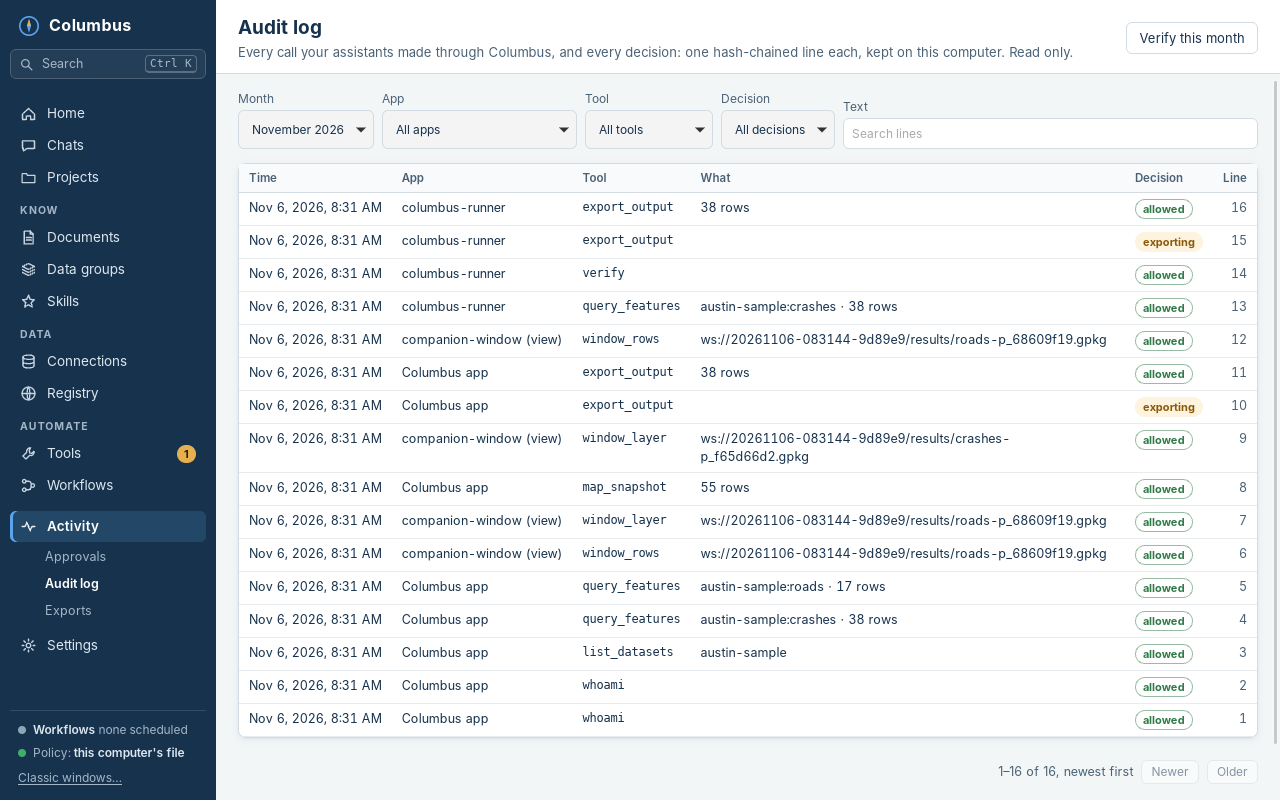
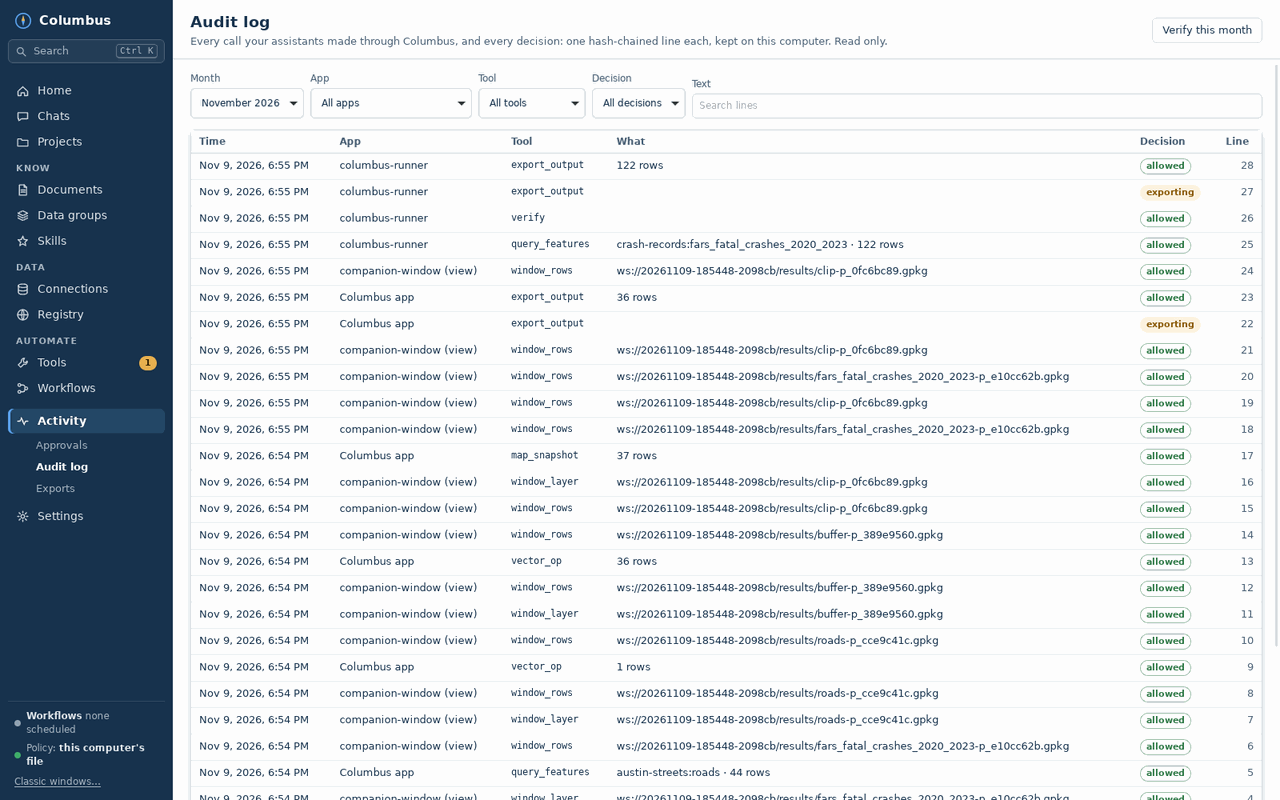
T-16: README and GitHub page (CR-2)
README rewritten for GIS analysts (about 110 lines): pitch, hero, what it does,
demo animation, how-it-works diagram, get started, tour, what's in 0.14.
Pictures retaken in CI on public Austin data with the street basemap, light and
dark; social preview card for the owner to upload.

Claude-Session: https://claude.ai/code/session_01UjJQzVR1M2yDc1apjTBVEP

diff --git a/app/desktop/e2e/demo/social_card.py b/app/desktop/e2e/demo/social_card.py
@@ -36,7 +36,7 @@ p.foot {{ font-size: 22px; color: #9fc4ea; margin: 40px 0 0; }}
 <div class="text">
   <div class="brand"><img src="{data_url(IMAGES / 'logo.svg', 'image/svg+xml')}" alt=""><h1>Columbus</h1></div>
   <p class="pitch">Let AI work on your organization's GIS data, under your rules, on your computer.</p>
-  <p class="foot">Oracle · SQL Server · file geodatabases · ArcGIS · Excel</p>
+  <p class="foot">Oracle · SQL Server · geodatabases · ArcGIS</p>
 </div>
 <div class="shot"><img src="{data_url(IMAGES / 'hero-light.png', 'image/png')}" alt=""></div>
 </body></html>"""

diff --git a/README.md b/README.md
@@ -1,151 +1,112 @@
 <p align="center">
-  <img src="docs/images/logo.svg" alt="Columbus" width="96">
+  <img src="docs/images/logo.svg" alt="Columbus logo" width="88">
 </p>
 
 <h1 align="center">Columbus</h1>
 
 <p align="center">
-  <b>A governed GIS workbench for working with AI.</b><br>
-  Your assistant reads, checks and maps your data under your organization's rules, and nothing changes or leaves your computer without you.
+  <b>Let AI work on your organization's GIS data, under your rules, on your computer.</b>
 </p>
 
 <p align="center">
-  <a href="https://github.com/wiatrek-kevin-s/columbus/actions/workflows/ci.yml"><img alt="CI" src="https://github.com/wiatrek-kevin-s/columbus/actions/workflows/ci.yml/badge.svg"></a>
+  <a href="https://github.com/wiatrek-kevin-s/columbus/actions/workflows/ci.yml"><img alt="CI status" src="https://github.com/wiatrek-kevin-s/columbus/actions/workflows/ci.yml/badge.svg"></a>
   <a href="https://github.com/wiatrek-kevin-s/columbus/releases"><img alt="Latest release" src="https://img.shields.io/github/v/release/wiatrek-kevin-s/columbus?include_prereleases&label=release"></a>
-  <img alt="Platforms" src="https://img.shields.io/badge/platforms-macOS%20%7C%20Windows-blue">
-  <img alt="Built with Rust and Python" src="https://img.shields.io/badge/built%20with-Rust%20%2B%20Python-orange">
+  <img alt="Platforms: macOS, Windows, Linux server" src="https://img.shields.io/badge/platforms-macOS%20%7C%20Windows%20%7C%20Linux%20server-blue">
   <a href="LICENSE"><img alt="License: Apache 2.0" src="https://img.shields.io/badge/license-Apache--2.0-green"></a>
 </p>
 
 <p align="center">
   <a href="https://github.com/wiatrek-kevin-s/columbus/releases/latest"><b>Download</b></a> ·
-  <a href="docs/install-macos.md">Install on a Mac</a> ·
-  <a href="docs/install.md">Install on Windows</a> ·
-  <a href="docs/reference.md">Technical reference</a>
+  <a href="#get-started"><b>Get started</b></a> ·
+  <a href="docs/reference.md"><b>Docs</b></a>
 </p>
 
 <p align="center">
-  <img src="docs/images/chat.png" alt="A chat in the Columbus app: the assistant reads crash and road layers, looks at them on a map, and answers with a table; the map and the layers' checks are beside the chat" width="900"><br>
-  <sub>A chat in the Columbus app. The assistant read two layers, looked at them on a map to check that they line up, and answered. The map, the layers and their checks are beside the chat.</sub>
+  <picture>
+    <source media="(prefers-color-scheme: dark)" srcset="docs/images/hero-dark.png">
+    <img src="docs/images/hero-light.png" width="900" alt="The Columbus app. On the left, a chat: the analyst asks which fatal crashes from 2020 to 2023 happened within 150 feet of IH 35 in central Austin; the assistant reads the crash records and the street centerlines, draws a corridor, keeps the crashes inside it and answers with a table by year. On the right, a street map of central Austin with the IH 35 corridor and the counted crashes highlighted, and each layer marked Checks passed.">
+  </picture>
+  <br><sub>A question about real public data for Austin, Texas, answered in the Columbus app. Every layer is checked, and the map shows what was counted.</sub>
 </p>
 
 > [!WARNING]
-> **Test releases.** Columbus is young software, built mostly by an AI model (see [Disclaimer](#disclaimer)). Try it on data you can afford to have read, and have your organization review it before using it on production or sensitive data.
+> **Columbus is a test release, built mostly by an AI.** Try it on data you can afford to have read, and have your organization review it before using it on production or sensitive data ([disclaimer](#disclaimer)).
 
-## Why Columbus
+## What it does
 
-- **Your AI, your data, your rules.** Use Columbus from Claude desktop or any other AI app that speaks MCP, or from its own chat with your Anthropic API key. Whatever the AI asks for, Columbus decides in its own code (not in a prompt) what it may read and do.
-- **Read-only by default.** Every connection is read-only until your organization's settings allow edits, and even then each change set is shown to you before anything is written.
-- **Nothing leaves or changes without you.** Exports, edits, scripts and downloads wait for your yes. Approvals are bound to the exact request, single-use, and expire.
-- **Every result is checked.** Row counts, CRS and units, geometry validity, row limits and filters come back with every result as checks: passed, to review, or failed. A failed check blocks exports until you decide.
-- **It shows its work.** Every output has a provenance record (inputs, steps, checks), and every call, including refusals, is a line in a hash-chained audit log on your computer.
-- **Local and private.** Columbus runs on your computer. Your data goes to the AI service you chose, and only the rows the rules let it see. Columbus itself sends nothing anywhere: no telemetry, no account.
+- **Reaches all your data.** Oracle and SQL Server geodatabases, file geodatabases and shapefiles, ArcGIS Online and Portal layers, CSV and Excel, GeoPackage, PostGIS and rasters. You add each one once, in the app.
+- **Keeps your rules, in code.** Every connection is read-only unless your organization allows edits. Row filters and hidden fields apply before the AI sees anything. Exports, edits and scripts wait for your yes, unless you approved them ahead of time (a pre-approved folder, a tool you installed). Every step is logged on your computer.
+- **Does real GIS work.** Queries, joins, buffers and overlays, raster analysis, your own Python, and ArcGIS Pro's arcpy (experimental). Every result comes back with checks (row counts, coordinate systems, valid shapes), and jobs you repeat become scheduled workflows.
 
-## A tour
+## See it work
+
+<p align="center">
+  <picture>
+    <source type="image/webp" srcset="docs/images/demo.webp">
+    <img src="docs/images/demo.gif" width="900" alt="A short animation of the Columbus app: the analyst types a question; the assistant reads two layers, which appear on the map; the checks pass and it answers with a table; asked to export, Columbus shows a request with exactly what will be written and where; the analyst allows it once and the export is done.">
+  </picture>
+  <br><sub>Ask, read, map, check. The export waits until you allow it.</sub>
+</p>
+
+## How it works
+
+<p align="center">
+  <picture>
+    <source media="(prefers-color-scheme: dark)" srcset="docs/images/how-it-works-dark.svg">
+    <img src="docs/images/how-it-works-light.svg" width="900" alt="Diagram: your AI app (Columbus's own chat, Claude, Copilot or any app that speaks MCP) asks Columbus. Columbus, on your computer, applies the rules, the approvals, and the checks and log. Then it reads your data (Oracle, SQL Server, file geodatabases, shapefiles, ArcGIS Online and Portal, CSV, Excel, GeoPackage, rasters, PostGIS) or runs your Python (the GIS engine, your environments, ArcGIS Pro's arcpy).">
+  </picture>
+</p>
+
+Your AI app never touches your data directly. It asks Columbus, through MCP (the standard way AI apps call tools), and Columbus decides in its own code what it may read and do. Columbus runs on your computer, with no account and no telemetry. Your data goes only to the AI service you chose, and only the rows your rules allow.
+
+## Get started
+
+1. **Download** the [latest release](https://github.com/wiatrek-kevin-s/columbus/releases/latest): the Columbus app, the Claude extension (`.mcpb`) and the server folder (`.zip`).
+2. **Set up the GIS engine** once, from the server folder: `sh engine/setup-engine.sh` on a Mac, `engine\setup-engine.ps1` on Windows.
+3. **Connect an AI.** Install the extension in Claude desktop, or add your Anthropic API key in the app under **Settings › Models and accounts**.
+4. **Add a connection and ask.** In the app, **Connections › Add connection** (a GeoPackage or a file geodatabase is the quickest start). Then ask, for example: *Check the parcels layer for invalid geometries and show me where they are.*
+
+Step by step: [Windows 10 and 11](docs/install.md) · [Mac](docs/install-macos.md) (Apple Silicon, macOS 15 or later). The app is not code-signed yet, so Windows and macOS warn the first time; the guides say what to do.
+
+## A short tour
 
 <table>
   <tr>
-    <td width="50%"><img src="docs/images/chat.png" alt="Chat with the map beside it"><br><b>Chat</b>: the assistant's steps fold into short lines with check badges; the map and table sit beside it.</td>
-    <td width="50%"><img src="docs/images/chat-map-first.png" alt="Map first layout"><br><b>Map first</b>: one click puts the map in the middle and the chat on the side, for reviewing results.</td>
+    <td width="50%"><picture><source media="(prefers-color-scheme: dark)" srcset="docs/images/tour-connections-dark.png"><img src="docs/images/tour-connections-light.png" alt="The Connections page listing an Oracle enterprise geodatabase, a file geodatabase, a folder of crash records, a GeoPackage of streets and an ArcGIS Online layer, each read only, with what the assistant may see in plain words."></picture><br><b>Connections.</b> Each source, and in plain words what the AI may see.</td>
+    <td width="50%"><picture><source media="(prefers-color-scheme: dark)" srcset="docs/images/tour-approval-dark.png"><img src="docs/images/tour-approval-light.png" alt="An export request in the chat, showing the layer, the folder and the file it will write, with Allow once and Deny buttons."></picture><br><b>Approvals.</b> An export shows exactly what it will write, and where.</td>
   </tr>
   <tr>
-    <td><img src="docs/images/approval.png" alt="An export waiting for approval in the chat"><br><b>Approvals</b>: an export to a folder that isn't pre-approved waits for you, with exactly what it will write and where.</td>
-    <td><img src="docs/images/home.png" alt="Home page"><br><b>Home</b>: what needs you, from every chat and AI app on this computer: requests, notes in draft, tools and workflows to review.</td>
-  </tr>
-  <tr>
-    <td><img src="docs/images/workflow-review.png" alt="Reviewing a workflow before approving it"><br><b>Workflows</b>: a job your assistant proposed, in plain words and in full, approved once with Touch ID or Windows Hello.</td>
-    <td><img src="docs/images/workflow-run.png" alt="A workflow run's report"><br><b>Workflow runs</b>: each run's report: steps, row counts, checks and what was exported.</td>
-  </tr>
-  <tr>
-    <td><img src="docs/images/tool-review.png" alt="Reviewing a tool before installing it"><br><b>Your own tools</b>: a script your assistant packaged as a tool, read line by line before you install it.</td>
-    <td><img src="docs/images/connections.png" alt="Connections page"><br><b>Connections</b>: your databases and files, and in plain words what the assistant may see in each.</td>
-  </tr>
-  <tr>
-    <td><img src="docs/images/audit.png" alt="Audit log viewer"><br><b>Audit log</b>: every call any assistant made through Columbus, and every decision, with a check of the chain.</td>
-    <td><img src="docs/images/settings.png" alt="Models and accounts settings"><br><b>Settings</b>: the AI for chats (model and thinking level), the server and engine in use, and your organization's switches.</td>
+    <td><picture><source media="(prefers-color-scheme: dark)" srcset="docs/images/tour-workflow-run-dark.png"><img src="docs/images/tour-workflow-run-light.png" alt="The Workflows page with a weekly crash check and the report of its last run: steps, row counts, checks and the exported files."></picture><br><b>Workflows.</b> A repeated job, run on a schedule, with a report each time.</td>
+    <td><picture><source media="(prefers-color-scheme: dark)" srcset="docs/images/tour-checks-dark.png"><img src="docs/images/tour-checks-light.png" alt="The map in front, with a layer's details open: its checks, the datasets it was made from and its provenance record."></picture><br><b>Checks and provenance.</b> Each result, what it was made from, and how.</td>
   </tr>
 </table>
 
-Every screenshot is taken from the app itself by a script ([`app/desktop/e2e/screenshots.py`](app/desktop/e2e/screenshots.py)), on made-up data around Austin, Texas.
+More pages in the [app tour](docs/app-tour.md). Every picture is taken from the app by a script ([`screenshots.py`](app/desktop/e2e/screenshots.py)) on [public data](docs/images/DATA-CREDITS.md).
 
-## The app, page by page
+## What's in 0.14
 
-The Columbus app is one window with a menu down the side.
+- **Folders of files:** CSV, Excel, GeoJSON, GeoParquet, KML and FlatGeobuf, with the same rules as a GeoPackage.
+- **ArcGIS Online and Portal layers**, public or signed in with your organization's own ArcGIS app. The AI never sees the sign-in.
+- **Your own Python environments** for scripts, sandboxed by default.
+- **arcpy in trusted environments** (*experimental*: not yet checked on a real ArcGIS Pro computer).
+- **File geodatabase and GeoTIFF exports**, and measures (M values) kept end to end for linear referencing.
+- **Web map layers** (imagery and other services) on your map, for display only.
+- **Reviewing results:** open a workflow run in a chat, zoom to a row, measure on the map.
 
-| Page | What it is for |
-| --- | --- |
-| **Home** | What needs you right now: requests waiting for a decision, notes in draft, tools and workflows to review, recent chats. The first time, a short setup checklist (connect an AI, set up the GIS engine, add a connection). |
-| **Chats** | Your conversations in the app, saved and searchable (**Ctrl+K** / **⌘K**), and the sessions other AI apps (Claude desktop) run through Columbus, with what they did and their map. A chat opens with the map and table beside it; choose its model and thinking level below the message box. |
-| **Projects** | A piece of work with its own instructions for the assistant, the connections its chats may use, a default export folder and its project databases. |
-| **Documents** | Notes Columbus drafted from your databases (fields, codes, relationships), which you fill in and **Mark reviewed**, and your organization's context pack, read only. |
-| **Data groups** | Named sets of datasets across connections, each with an optional row filter; attached to a project, its chats see only those rows. |
-| **Skills** | The GIS skills your assistant reads: when to use which tool, and how. Skills are advice; they never grant access. |
-| **Connections** | Add, test and edit GeoPackages, SQLite files, shapefiles, file geodatabases, raster folders, folders of files (CSV, Excel, GeoJSON, GeoParquet, KML, FlatGeobuf), ArcGIS Online and Portal services (with **Sign in**) and databases (PostGIS, Oracle, SQL Server), each with its mode (read-only or read-write), allowed datasets, row filter and limits. Anything that gives the assistant more access asks for Touch ID or Windows Hello. **Draft notes** writes a note about a connection's datasets for you to review. **Map layers** adds imagery and other web services to your map (display only; the assistant never sees them). |
-| **Registry** | The open geospatial registry: open data by place and theme, and GIS tools, searched through Columbus. |
-| **Tools** | Tools your assistant made from its scripts. You read each one, code and all, and install it; installed tools run without asking, in the same sandbox as scripts. |
-| **Workflows** | Jobs that run by themselves on a schedule: proposed by your assistant, approved by you, with **Run now**, **Pause**, and every run's report. Optionally an AI review of the results against your criteria. |
-| **Activity** | The **approvals inbox** across every session, the **audit log** (filter by app, tool and decision; verify the chain), and **exports**. |
-| **Settings** | The AI for chats (API key, model, thinking level), the Columbus server and GIS engine in use, your Python environments, theme, privacy, keyboard, and your organization's settings in plain sentences. |
+Files and upgrade steps: [release notes](https://github.com/wiatrek-kevin-s/columbus/releases) · Everything Columbus does: [capabilities](docs/capabilities.md).
 
-## What it can do
+## Learn more
 
-| Area | Highlights |
-| --- | --- |
-| **Data** | GeoPackage, SQLite, shapefiles, file geodatabases, raster folders, folders of CSV, Excel, GeoJSON, GeoParquet, KML and FlatGeobuf files, ArcGIS Online/Portal layers (public or signed in); PostGIS, Oracle and SQL Server (read-only, or read-write when allowed); datasets allowed by name or pattern; row filters and hidden fields applied in the server; limits on rows and time. |
-| **Analysis** | `query_features`, checked SQL (`sql_select`), vector operations (reproject, buffer, simplify, make valid, clip, dissolve, intersect, attribute and spatial joins), raster operations, verification checks; results are workspace layers passed by handle, never pasted into the chat. |
-| **Looking** | The map and table beside each chat; `map_snapshot` lets the assistant look at its layers as a picture (geometry only, no basemap, nothing downloaded) to spot slivers, gaps and layers that don't line up. |
-| **Big tables** | Raised limits (up to 20 million rows per query, by your organization), results streamed to disk, and project databases (DuckDB) to load several tables into and join with SQL. |
-| **Approvals** | Exports, edits, scripts, downloads and sending data to connected servers wait for you: in your AI app's own prompt, in the Columbus app's chat, or on a local approvals page. Bound to the exact request, single-use, expiring. |
-| **Your tools** | Save a script as a tool (`propose_tool`): checked, test-run in the sandbox, read and installed by you, then reusable by any assistant. |
-| **Workflows** | Save a job as a workflow (`propose_workflow`): reading and checking steps, the connections it may read, a schedule (launchd on macOS, Task Scheduler on Windows), results to an export folder, an optional AI review. Never waits for you: anything that needs approval stops it with "needs you". |
-| **Connected servers** | Other MCP servers (Drive, notes, vendor APIs) behind Columbus, reviewed and pinned by manifest, confined, with data-flow rules on what may be sent where. |
-| **Context** | Your organization's context pack (datasets, domains, LRS, SOPs, delivery specs) and your own notes, searchable by the assistant. |
-| **Audit** | One hash-chained line per call, including refusals; `columbus-mcp audit verify`; the app's viewer. |
-| **Platforms** | macOS 15 or later (Apple Silicon) and Windows 10/11. The server also builds and runs on Linux. |
-
-## Get Columbus
-
-Download from the [latest release](https://github.com/wiatrek-kevin-s/columbus/releases/latest):
-
-- **Mac (Apple Silicon, macOS 15 or later):** the Claude extension (`.mcpb`), the Columbus app (`.dmg`), and, the first time, the server folder (`.zip`) to set up the GIS engine. Follow the [Mac install guide](docs/install-macos.md).
-- **Windows 10 and 11:** the Claude extension (`.mcpb`), the Columbus app (`-setup.exe`, or `.msi` for IT), and, the first time, the server folder (`.zip`). Follow the [Windows install guide](docs/install.md).
-
-The release notes on each release have the exact files and update steps. The app is not code-signed yet, so macOS and Windows warn the first time; the guides say what to do.
-
-## Quick start
-
-1. **Set up the GIS engine** once, from the server folder: `engine/setup-engine.sh` (Mac) or `engine\setup-engine.ps1` (Windows).
-2. **Connect an AI.** Either install the `.mcpb` extension in Claude desktop, or open the Columbus app and add your Anthropic API key under **Settings › Models and accounts**.
-3. **Add a connection** in the app (**Connections › Add connection**): a GeoPackage is the quickest start.
-4. **Ask.** For example:
-   - *Which datasets can I use, and what CRS are they in?*
-   - *Check the parcels layer for invalid or empty geometries and show me where they are.*
-   - *Make what we just did a workflow that runs every weekday at 6.*
-
-From the command line, `columbus-mcp --version` prints the server's version, `columbus-mcp workflow list` lists your workflows, and `columbus-mcp audit verify <file>` checks an audit log. See the [technical reference](docs/reference.md#build-and-run) to build from source.
-
-## How it is built
-
-| Part | Folder | Job |
-| --- | --- | --- |
-| **Gateway** (`columbus-mcp`) | [`crates/gateway`](crates/gateway) | The MCP server: tools, policy, approvals, audit, provenance, the approvals page, the workflow runner |
-| **Shared rules** | [`crates/shared`](crates/shared) | Policy, access, SQL checking, approvals, audit chain, personal tools and workflows on disk |
-| **Broker and flows** | [`crates/broker`](crates/broker), [`crates/flow`](crates/flow) | Connected MCP servers, their manifests, and data-flow rules |
-| **Sandbox** | [`crates/confine`](crates/confine) | Confinement for scripts, tools and connected servers (Seatbelt on macOS, AppContainer and job objects on Windows, Landlock and seccomp on Linux) |
-| **Chat** | [`crates/chat`](crates/chat) | The app's own chat with the Anthropic API |
-| **GIS engine** | [`workers/python`](workers/python) | geopandas, pyogrio, shapely, pyproj, rasterio and DuckDB, as a worker the gateway drives |
-| **Desktop app** | [`app/desktop`](app/desktop) | Tauri 2 (Rust) with a plain HTML/JS interface |
-| **Map page** | [`app/ui`](app/ui) | MapLibre map and table, served by the gateway, shown beside each chat |
-| **Skills** | [`skills`](skills) | GIS skills for assistants, checked against the server's tool names |
-
-The rules live in the gateway; the app adds no rules of its own. The [technical reference](docs/reference.md) has the details: what is enforced and how, confinement levels, connected servers, the context pack, tests and honest limits.
+- [Technical reference](docs/reference.md): every rule, and how it is enforced.
+- [How Columbus is built](docs/architecture.md) and [what it can do](docs/capabilities.md).
+- [Install on Windows](docs/install.md) · [Install on a Mac](docs/install-macos.md) · [Optional manual checks](docs/manual-checks.md).
+- [GIS skills](skills/README.md) for assistants · [example settings](examples).
+- [Security policy](SECURITY.md) · [Contributing](CONTRIBUTING.md).
 
 ## Disclaimer
 
-Columbus is built primarily by **Claude, an AI model made by Anthropic**, working under the direction of its owner, a GIS analyst rather than a software engineer. Its design, code, tests and documentation were written largely by AI, and its security relies on automated tests (on macOS, Windows and Linux) and on independent AI security reviews of each change, **not on a professional human security audit**.
-
-It is offered as test releases, as is, without warranty (see the [license](LICENSE)). Do not rely on it to protect sensitive data, or use it on production systems, until your organization has reviewed it. AI assistants that use Columbus can make mistakes; check their results, which is what Columbus's checks, provenance and approvals are there to help you do.
+Columbus is built mostly by Claude, an AI model made by Anthropic, directed by its owner, a GIS analyst rather than a software engineer. Its security rests on automated tests on macOS, Windows and Linux and on AI reviews of each change, not on a professional human audit. It is offered as test releases, as is, without warranty. Don't rely on it to protect sensitive data, or use it on production systems, until your organization has reviewed it. AI assistants make mistakes: check their results, which is what Columbus's checks, approvals and provenance are for.
 
 ## License
 
-[Apache License 2.0](LICENSE).
+[Apache License 2.0](LICENSE). The sample data in the pictures is public US government data ([credits](docs/images/DATA-CREDITS.md)).
